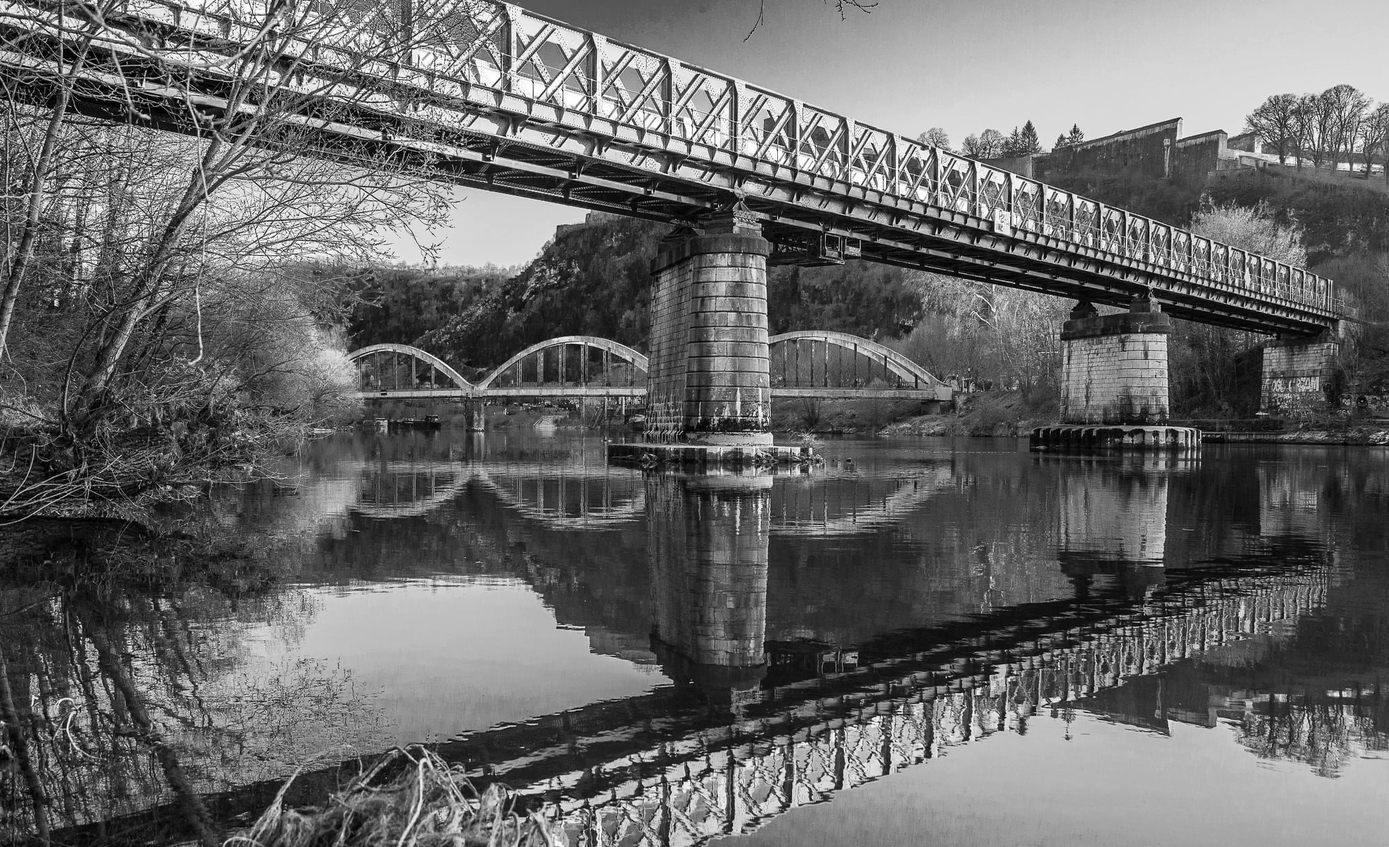
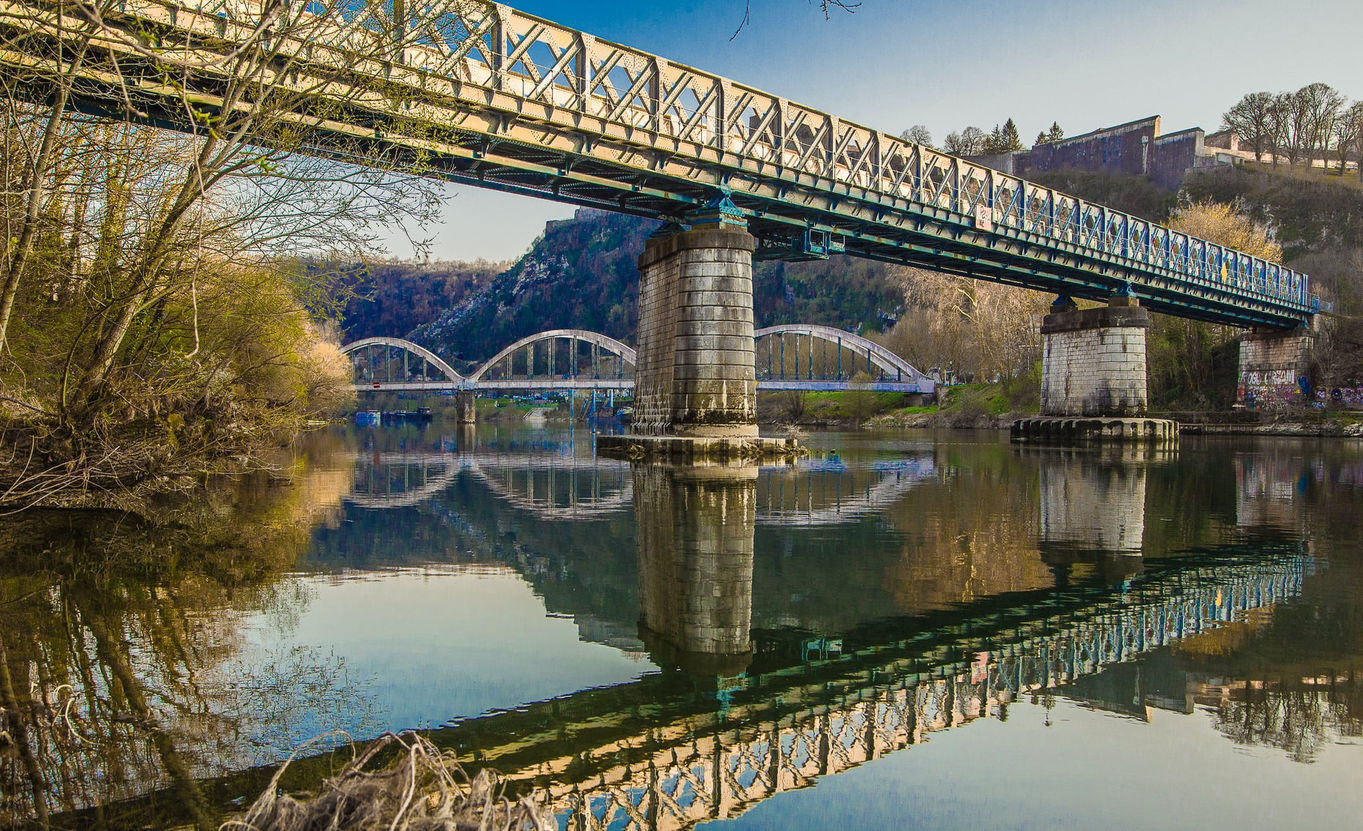
Accueil : illustrations des services en couleur au survol

diff --git a/src/assets/styles/_refonte.scss b/src/assets/styles/_refonte.scss
@@ -121,6 +121,23 @@ a:hover .photo-bien,
   pointer-events: none;
 }
 
+// Photo d'illustration : noir et blanc, la couleur revient au survol de son bloc
+.photo-illustration {
+  filter: grayscale(1);
+  transition: filter $transition-photo, transform 1.2s ease;
+}
+
+.photo-illustration.en-vue {
+  filter: grayscale(0);
+}
+
+// sur téléphone (pas de survol possible), les illustrations restent en couleur
+@media (hover: none) {
+  .photo-illustration {
+    filter: none;
+  }
+}
+
 // Curseur clignotant de la machine à écrire
 .curseur {
   display: inline-block;

diff --git a/src/pages/Accueil/Accueil.js b/src/pages/Accueil/Accueil.js
@@ -191,7 +191,7 @@ function Accueil() {
           {SERVICES.map((s) => (
             <Apparition key={s.num} className={styles.service}>
               <div className={styles.servicePhoto}>
-                <img src={s.photo} alt='' loading='lazy' />
+                <img className='photo-illustration' src={s.photo} alt='' loading='lazy' />
               </div>
               <span className={styles.serviceNum}>{s.num}</span>
               <h3>{s.titre}</h3>

diff --git a/src/pages/Accueil/Accueil.module.scss b/src/pages/Accueil/Accueil.module.scss
@@ -237,11 +237,12 @@ $respiration-mobile: 64px;
     width: 100%;
     height: 100%;
     object-fit: cover;
-    transition: transform 1.2s ease;
+    transition: filter $transition-photo, transform 1.2s ease;
   }
 }
 
 .service:hover .servicePhoto img {
+  filter: grayscale(0);
   transform: scale(1.03);
 }
 
